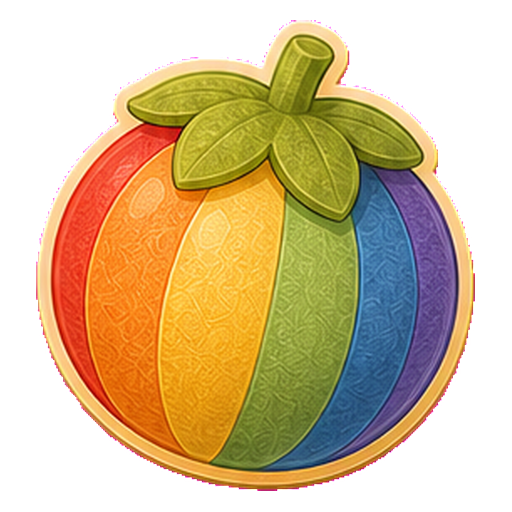
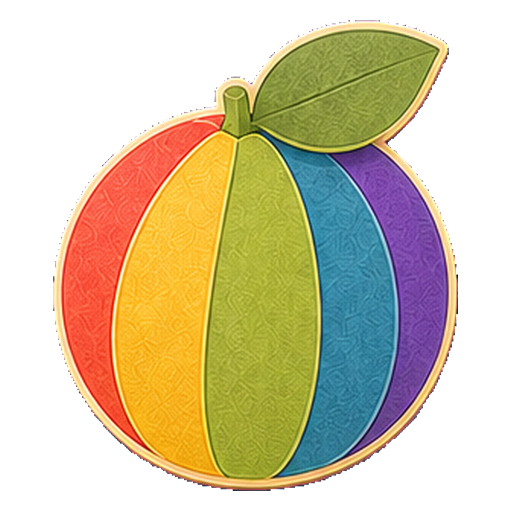
art(berries): the wild berry ladder gets one hue and one silhouette per tier
v5 spent three of twelve tiers on near-identical greens, and its late tiers had
stopped reading as berries at all -- the cloudberry was a heap of orange balls,
the salmonberry a mango, the rainbow tier a beach ball.

The roster is rebuilt so no tier repeats another's hue OR its silhouette: bud,
redcurrant sprig, strawberry, ribbed gooseberry, blueberry, raspberry cone,
golden husk berry, blackberry, rosehip, snowberry, crystal dewberry, rainbow
berry. The husk and the rosehip's dried sepal crown carry the most recognition.

Chosen from six candidates generated across two rounds; the losing five differed
in cut-paper construction (stacked collage, two-plane, folded panels). Measured
against the accepted Glowshroom sheet, this one sits exactly at that bar for
low-frequency shading ramp where v5 sat 1.61x above it.

Cut with slice_item_lines.py (12 components, centroid-assigned). The §8 gate is
zero on all four counts -- note the fringe check must exclude the interior, or
tier 11's legitimately violet paper reads as 72k px of magenta contamination.

diff --git a/games/grove/assets/_originals/items/item_lines_cutpaper_v2/README.md b/games/grove/assets/_originals/items/item_lines_cutpaper_v2/README.md
@@ -21,7 +21,11 @@ Status:
 - coin: v2 generated and sliced into live `games/grove/assets/items/coin`.
 - acorn: v2 generated as a 12-tier premium drop line and sliced into live `games/grove/assets/items/acorn`.
 - fairy_hollow_glowshroom: v3 revises the line with star/moon/sun late, crystal before final, and rainbow mushroom final.
-- fairy_hollow_wild_berries: v5 generated; berry silhouettes separated further, no desert fruit overlap.
+- fairy_hollow_wild_berries: v6 generated and sliced into live `games/grove/assets/items/fairy_hollow_wild_berries`.
+  Rebuilt the roster so every tier owns one hue and one silhouette (bud, redcurrant sprig, strawberry, ribbed
+  gooseberry, blueberry, raspberry cone, golden husk berry, blackberry, rosehip, snowberry, crystal dewberry,
+  rainbow berry) — v5 spent three tiers on near-identical greens and its cloudberry/salmonberry/rainbow tiers
+  read as loose orange balls, a mango, and a beach ball. Chosen from six candidates (see v6 sidecar).
 - snowy_village_snow_ice: v4 generated; starts with one simple snowflake, adds igloo and snow slide, removes the extra snowflake and round snow cylinder.
 - snowy_village_woolens: v4 generated; replaces the duplicate tier 10 sock/bootie shape with a neck-warmer cowl.
 - snowy_village_winter_berries: v5 generated; removes duplicate bud/acorn shapes and odd ornate flowers, broadening into winter needles, holly, juniper, pinecone, mistletoe, cabbage, fern, lichen, reeds, wreath, and seed crest.
